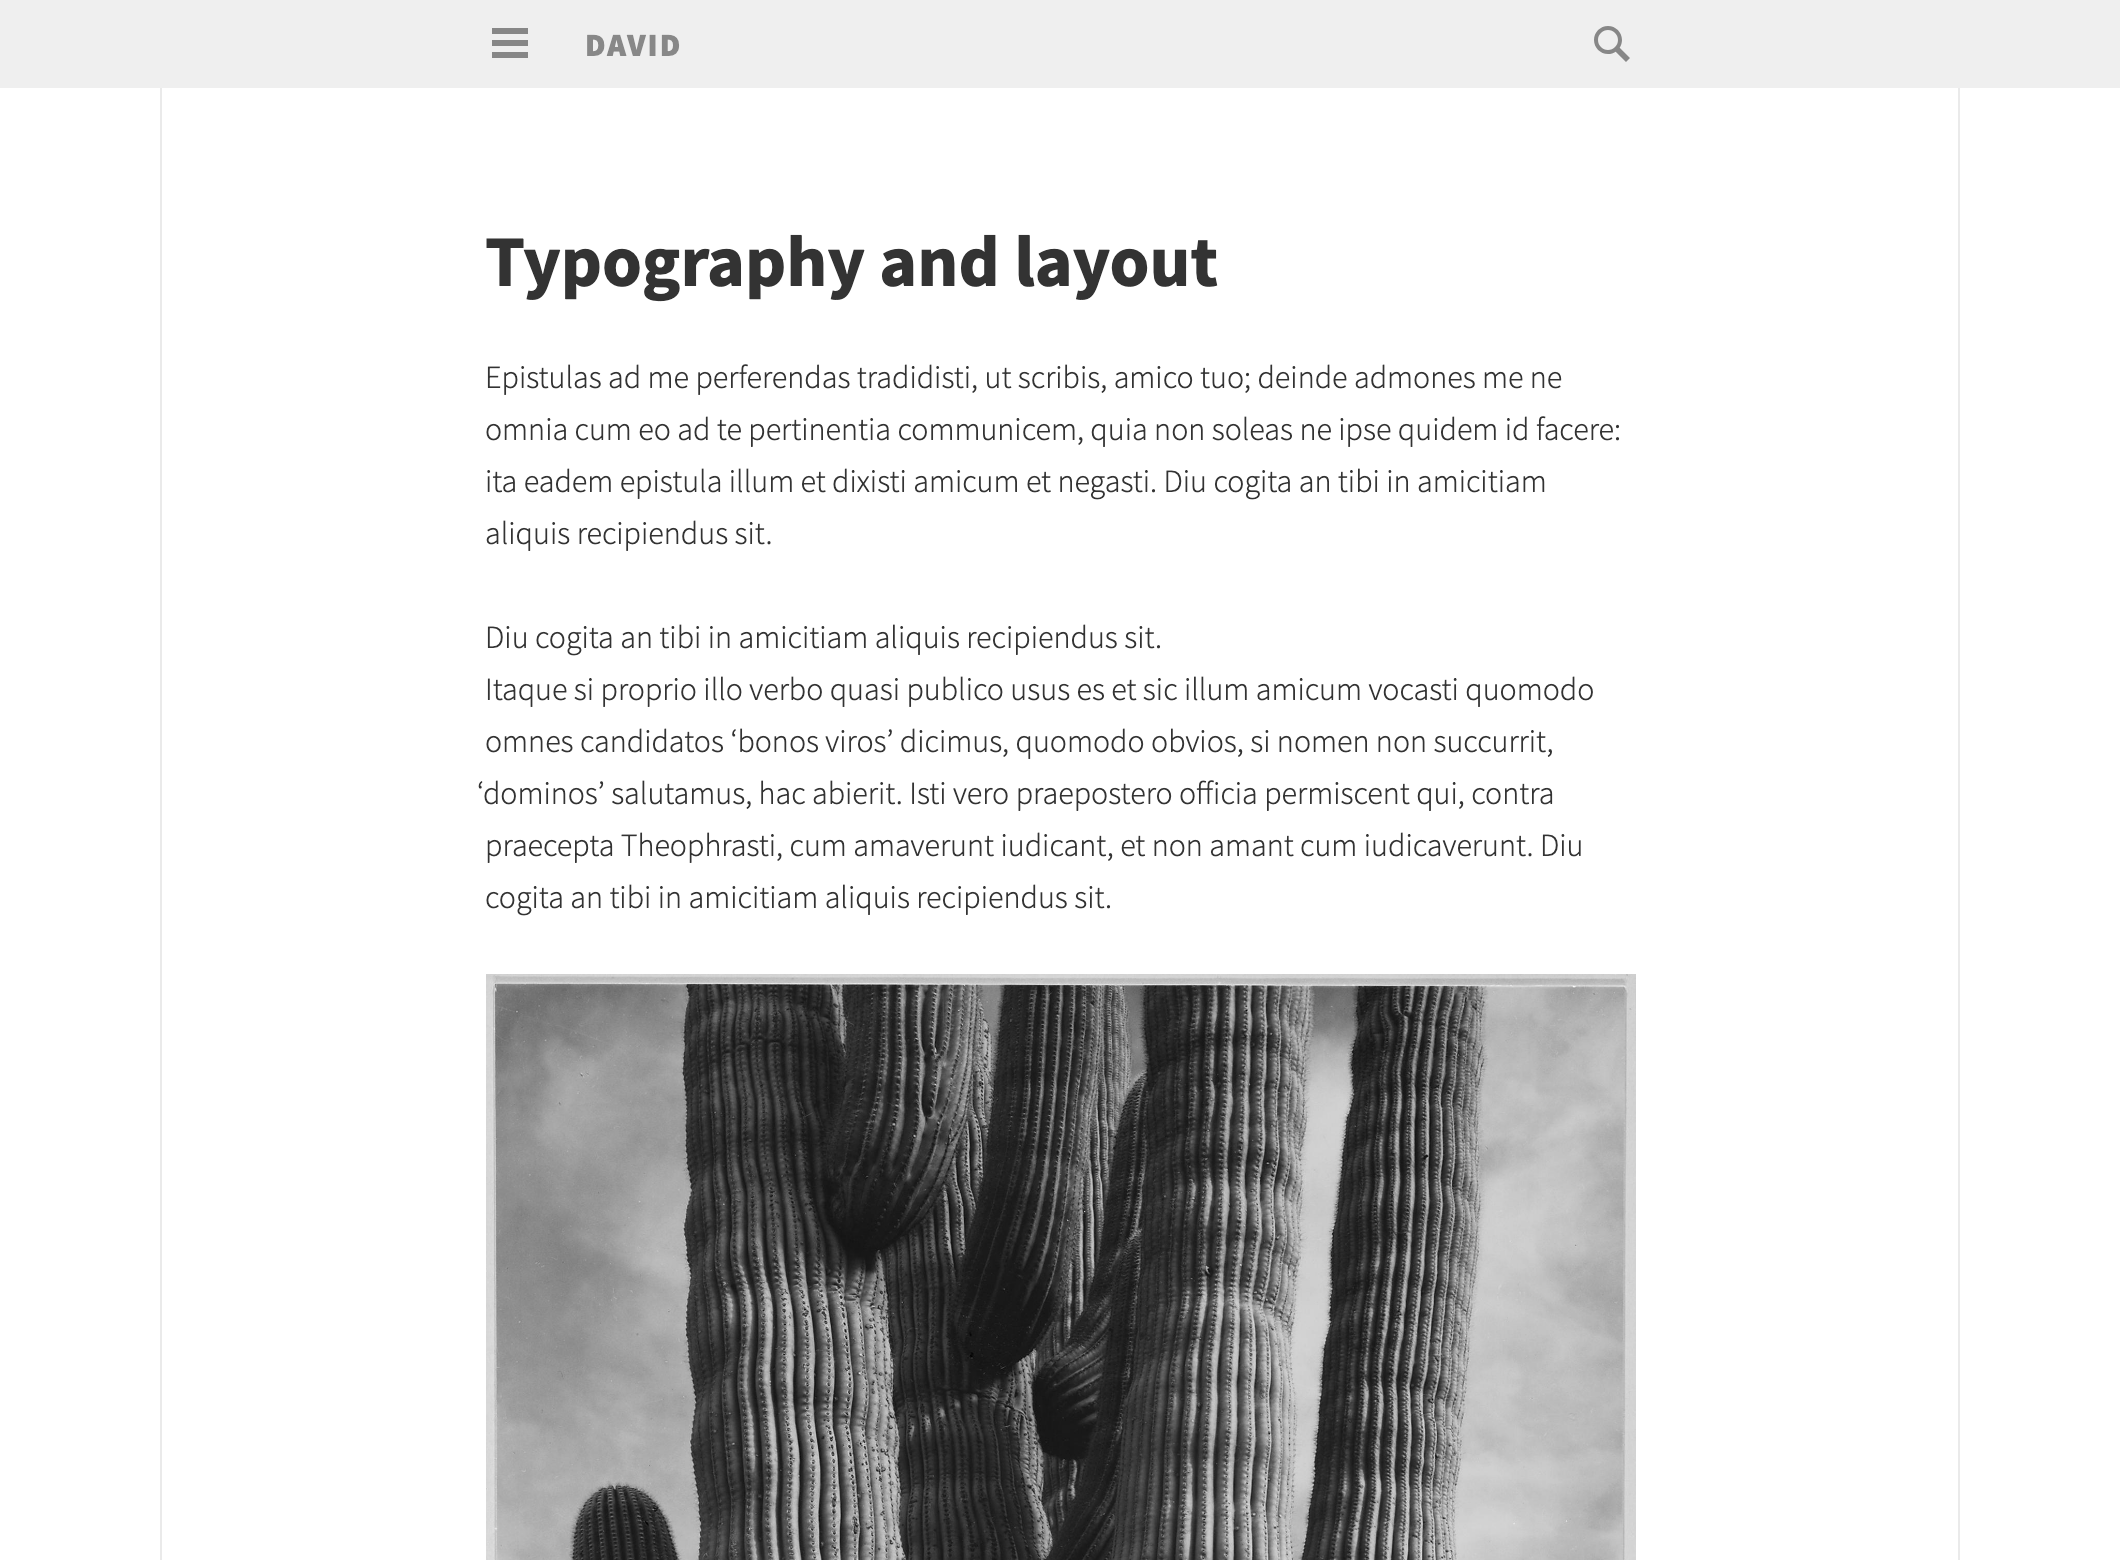
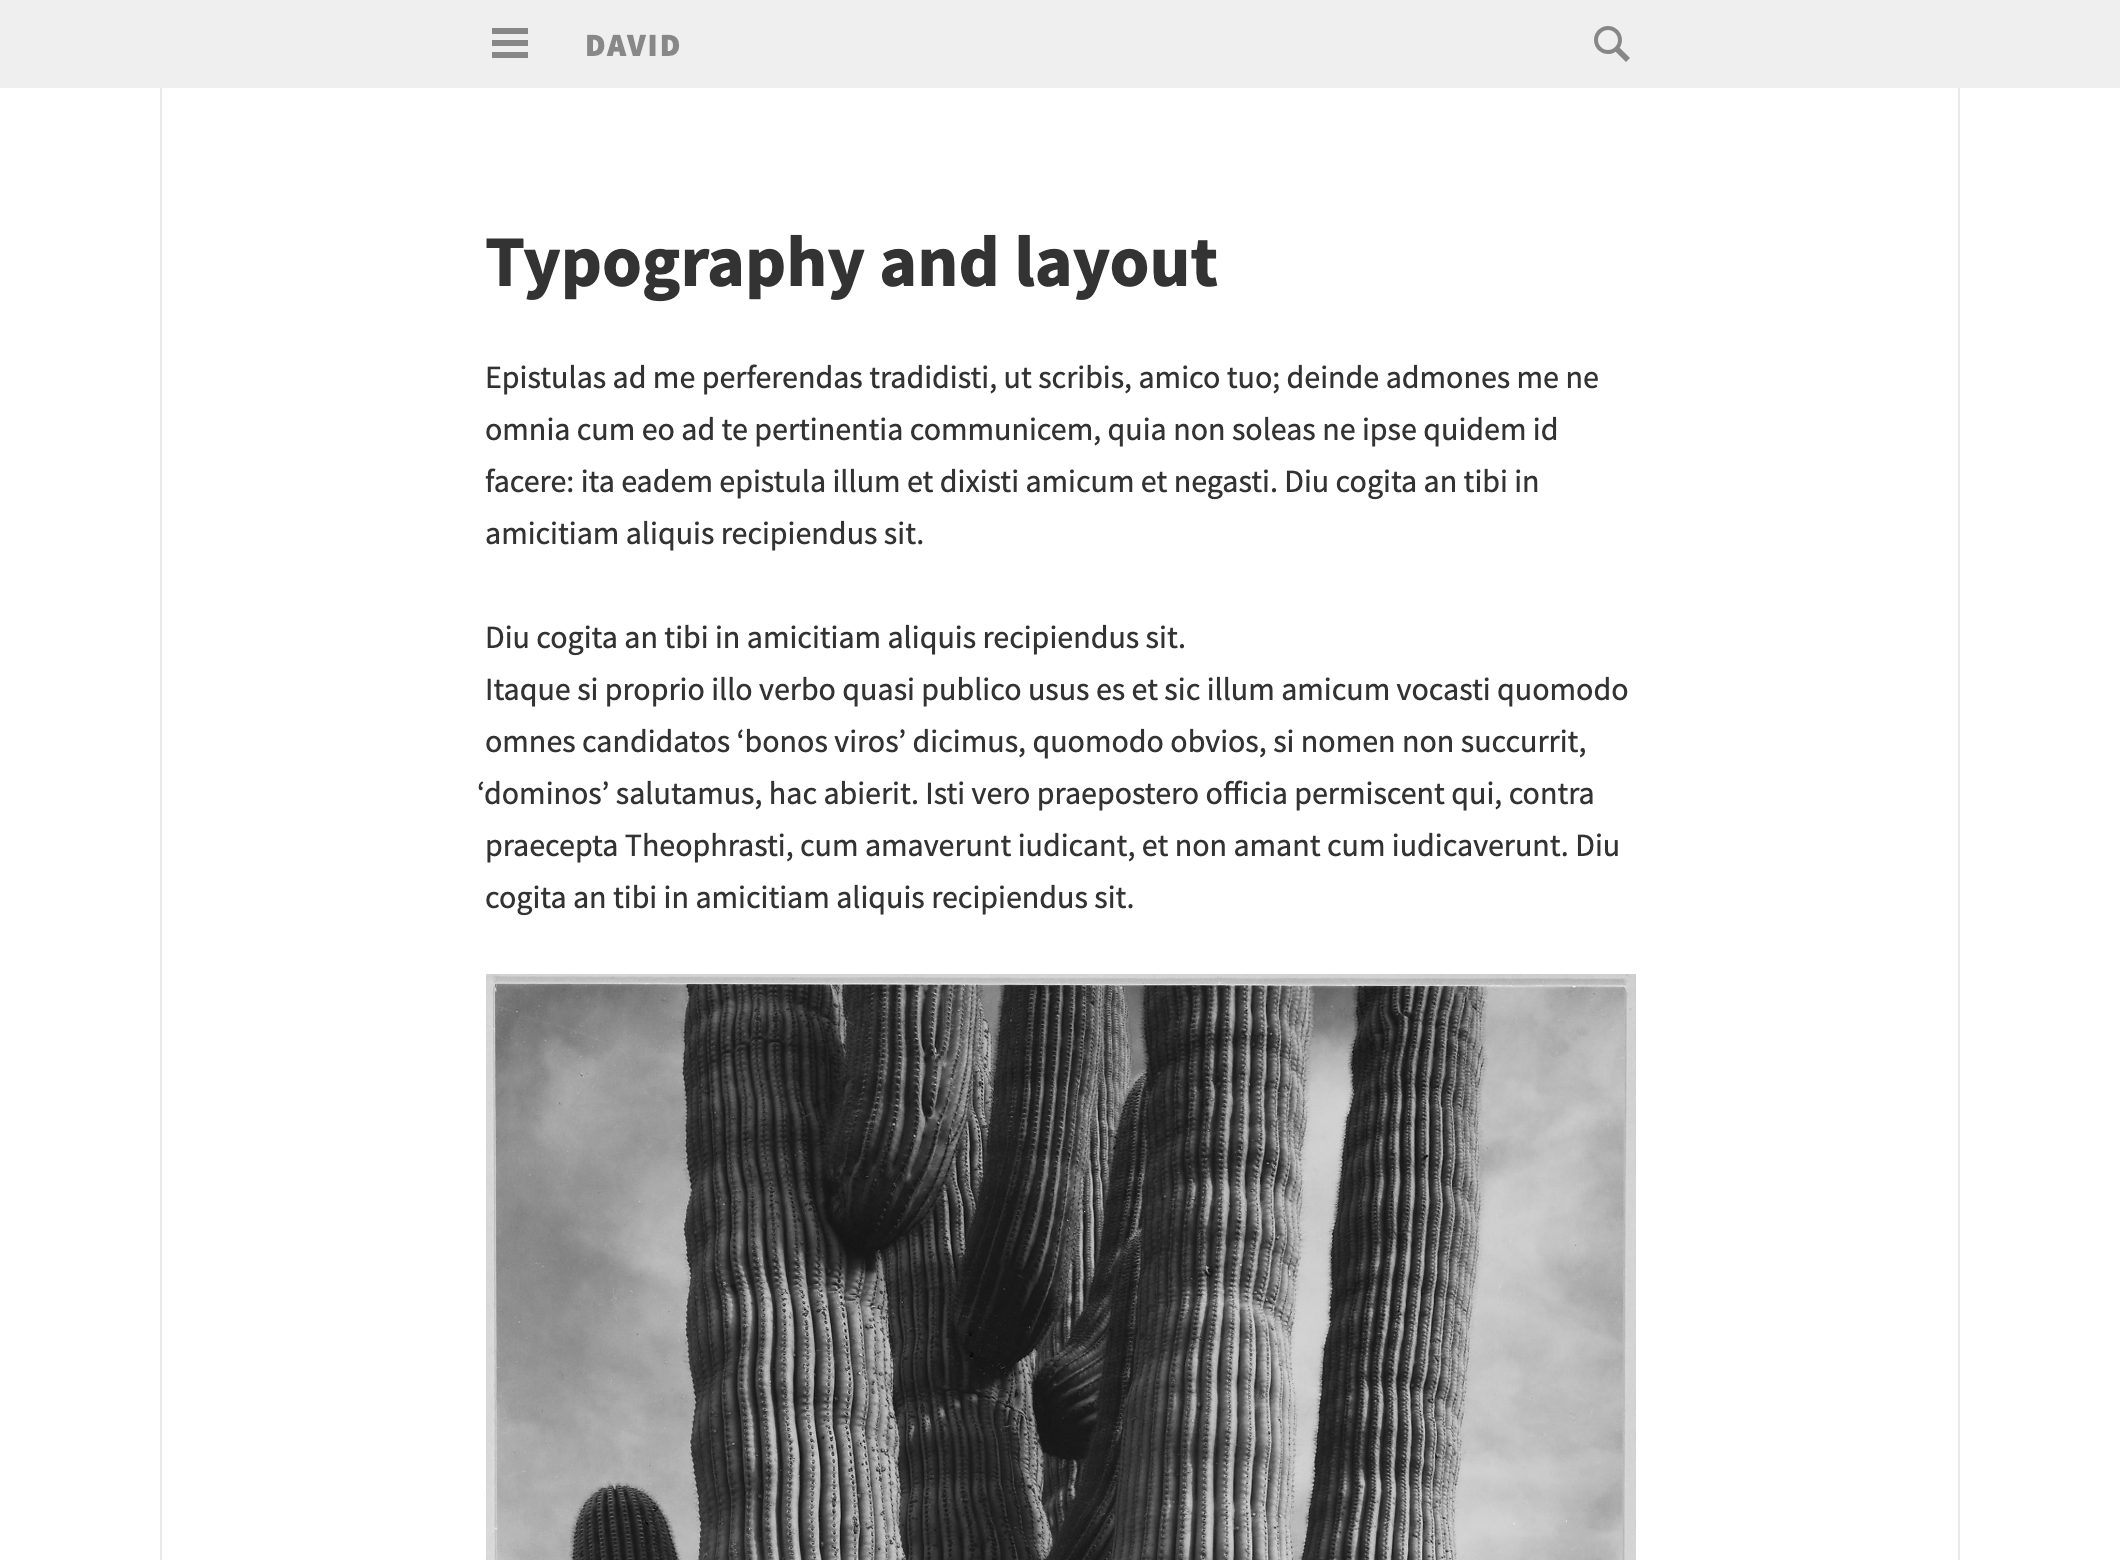
Fix thin Fieldnotes body text after dashboard font migration

Changed region(s): [[0.2179, 0.4, 0.7783, 0.5846], [0.2179, 0.2154, 0.7472, 0.3692]]

diff --git a/app/templates/source/fieldnotes/style.css b/app/templates/source/fieldnotes/style.css
@@ -3018,6 +3018,11 @@ body {
 	font-family: var(--body-font-family);
 	font-size: var(--body-font-size);
 	line-height: var(--body-line-height);
+	/* Isola sets `font-weight: 300` on body, which used to fall back to the
+	   Regular face because Source Sans Pro Light was never loaded. Now that a
+	   real 300 face ships with the self-hosted font, pin body copy to 400 to
+	   keep the original rendered weight. */
+	font-weight: 400;
 }
 
 button,
